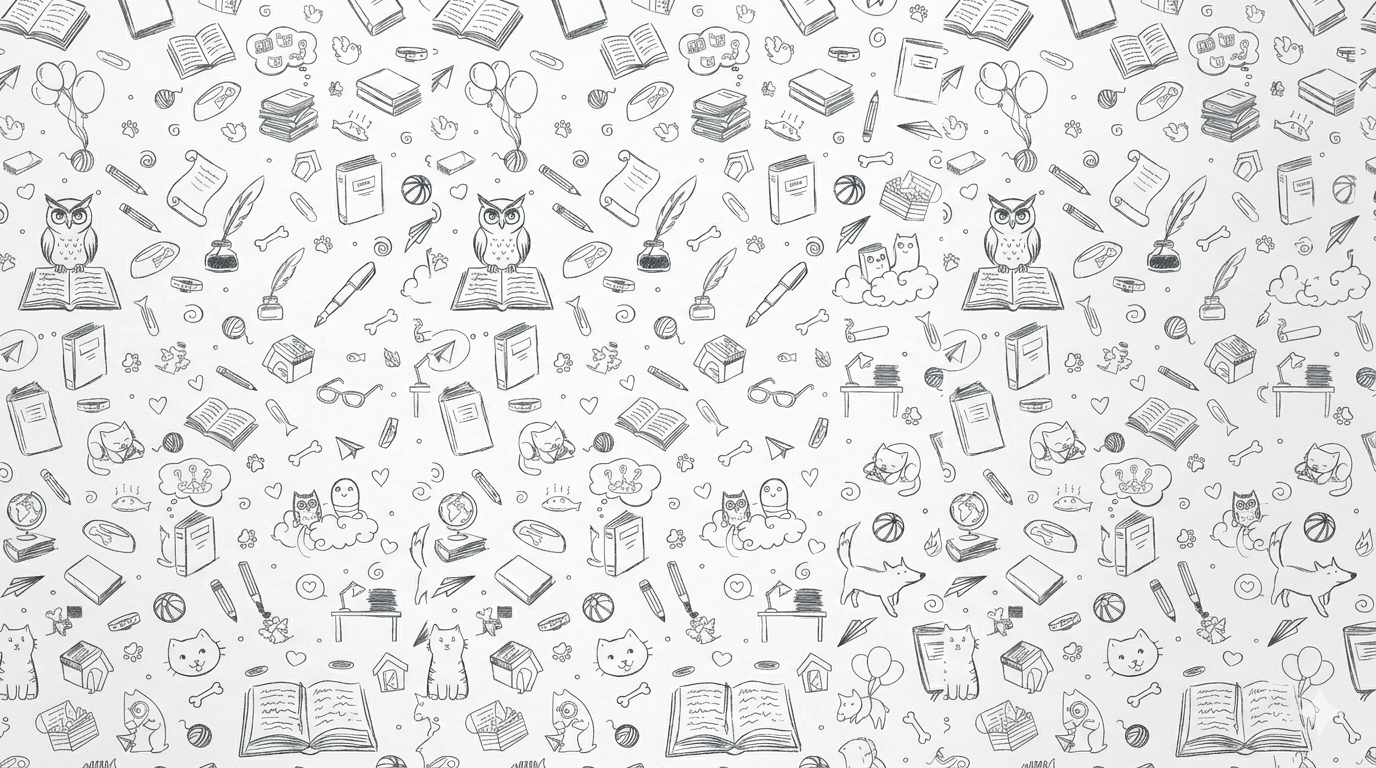
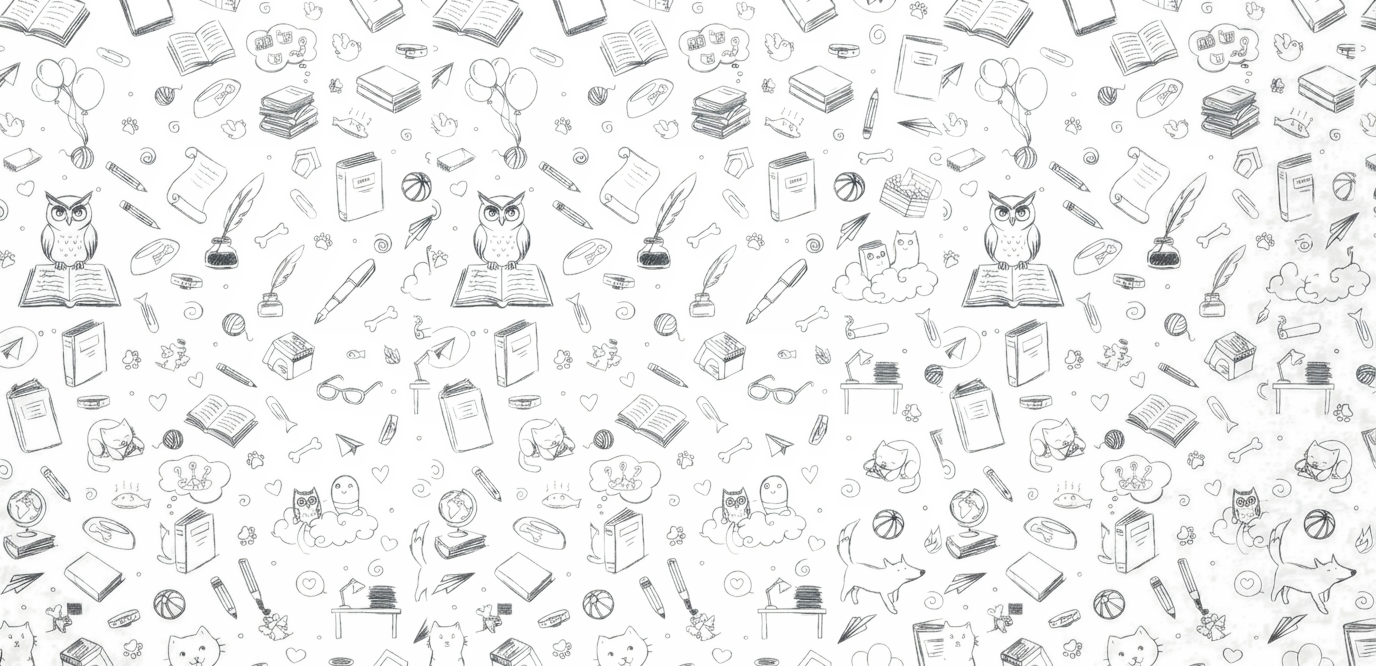
Fix: Fixed light mode background color and added better text box

diff --git a/src/pages/Dashboard/ChatRoom.tsx b/src/pages/Dashboard/ChatRoom.tsx
@@ -635,11 +635,11 @@ export default function ChatRoom({ panelMode, onBack, roomIdOverride }: ChatRoom
       })()}
       {/* Quick Replies */}
       {showQuickReplies && !isBlocked && (
-        <div className="px-4 md:px-6 pb-2">
+        <div className="px-3 pb-1 chat-bg">
           <div className="flex gap-2 overflow-x-auto no-scrollbar">
             {QUICK_MESSAGES.map((msg, i) => (
               <button key={i} onClick={() => sendMessage(msg)}
-                className="whitespace-nowrap px-4 py-2 theme-card border rounded-full text-xs font-medium text-luxury-ink/60 hover:bg-brand-teal/5 hover:text-brand-teal hover:border-brand-teal/20 transition-all" style={{ borderColor: 'var(--color-border)' }}>
+                className="whitespace-nowrap px-4 py-2 bg-surface-card border rounded-full text-xs font-medium text-luxury-ink/60 hover:bg-brand-teal/5 hover:text-brand-teal hover:border-brand-teal/20 transition-all shadow-sm" style={{ borderColor: 'var(--color-border)' }}>
                 {msg}
               </button>
             ))}
@@ -648,9 +648,9 @@ export default function ChatRoom({ panelMode, onBack, roomIdOverride }: ChatRoom
       )}
 
       {/* Input / Select Mode Actions */}
-      <div className="p-4 md:p-6 theme-card border-t pb-safe" style={{ borderColor: 'var(--color-border)' }}>
+      <div className="px-3 py-3 pb-safe chat-bg">
         {isSelectMode ? (
-          <div className="flex items-center justify-between">
+          <div className="flex items-center justify-between bg-surface-card rounded-2xl px-4 py-3 shadow-lg border" style={{ borderColor: 'var(--color-border)' }}>
             <div className="text-sm font-bold text-luxury-ink">
               {selectedMessages.size} selected
             </div>
@@ -670,7 +670,7 @@ export default function ChatRoom({ panelMode, onBack, roomIdOverride }: ChatRoom
             </div>
           </div>
         ) : isBlocked ? (
-          <div className="text-center py-4 bg-surface-soft rounded-2xl border border-luxury-ink/5">
+          <div className="text-center py-4 bg-surface-card rounded-2xl border border-luxury-ink/5 shadow-lg">
             <p className="text-sm font-bold text-luxury-ink/40">
               {isBlockedByMe ? "You have blocked this user." : "You cannot message this user."}
             </p>
@@ -678,7 +678,7 @@ export default function ChatRoom({ panelMode, onBack, roomIdOverride }: ChatRoom
         ) : (
           <div className="relative">
             {replyingTo && (
-              <div className="absolute bottom-full left-0 right-0 mb-4 bg-surface-card border rounded-xl p-3 flex items-start justify-between shadow-lg" style={{ borderColor: 'var(--color-border)' }}>
+              <div className="mb-2 bg-surface-card border rounded-2xl px-4 py-3 flex items-start justify-between shadow-md" style={{ borderColor: 'var(--color-border)' }}>
                 <div className="flex-1 overflow-hidden">
                   <div className="text-[10px] font-bold text-brand-teal uppercase tracking-widest mb-1 flex items-center gap-1"><CornerDownRight size={10} /> Replying to</div>
                   <div className="text-sm text-luxury-ink/70 line-clamp-1">{replyingTo.text || '📷 Image'}</div>
@@ -688,74 +688,80 @@ export default function ChatRoom({ panelMode, onBack, roomIdOverride }: ChatRoom
                 </button>
               </div>
             )}
-            
-            <form onSubmit={handleSendMessage} className="relative flex items-center gap-2">
-            <input 
-              type="file" 
-            ref={fileInputRef} 
-            onChange={handleImageUpload} 
-            accept="image/*" 
-            className="hidden" 
-          />
-          <button 
-            type="button" 
-            onClick={() => fileInputRef.current?.click()}
-            disabled={isUploading}
-            className="p-3.5 rounded-xl border border-luxury-ink/10 bg-surface-soft text-brand-teal hover:bg-brand-teal/10 hover:border-brand-teal/30 transition-all shrink-0 disabled:opacity-50"
-            title="Send Image"
-          >
-            {isUploading ? (
-              <div className="w-5 h-5 border-2 border-brand-teal border-t-transparent rounded-full animate-spin" />
-            ) : (
-              <Camera size={20} className="fill-brand-teal/10" />
-            )}
-          </button>
-          
-          <button type="button" onClick={() => setShowQuickReplies(!showQuickReplies)}
-            className={`p-3.5 rounded-xl border transition-all shrink-0 ${showQuickReplies ? 'bg-brand-teal text-white border-brand-teal' : 'bg-surface-soft border-luxury-ink/10 text-brand-teal hover:bg-brand-teal/10 hover:border-brand-teal/30'}`}
-            title="Quick replies">
-            ⚡
-          </button>
-          
-          <input
-            type="text"
-            value={newMessage}
-            onChange={(e) => setNewMessage(e.target.value)}
-            onPaste={async (e: React.ClipboardEvent<HTMLInputElement>) => {
-              const items = e.clipboardData?.items;
-              if (!items) return;
-              for (const item of Array.from(items)) {
-                if (item.type.startsWith('image/')) {
-                  e.preventDefault();
-                  const file = item.getAsFile();
-                  if (!file || !roomId) return;
-                  if (file.size > 5 * 1024 * 1024) {
-                    showToast('Image must be less than 5MB', 'error');
-                    return;
-                  }
-                  setIsUploading(true);
-                  try {
-                    const imageUrl = await uploadChatImage(file, roomId);
-                    await sendMessage(undefined, imageUrl);
-                  } catch {
-                    showToast('Failed to upload image', 'error');
-                  } finally {
-                    setIsUploading(false);
-                  }
-                  return;
-                }
-              }
-            }}
-            placeholder={isUploading ? "Uploading image..." : "Type your message..."}
-            disabled={isUploading}
-            className="flex-1 bg-surface-base border border-luxury-ink/5 rounded-2xl py-4 px-6 focus:outline-none focus:border-brand-teal transition-all text-sm font-medium"
-          />
-          <button type="submit" disabled={!newMessage.trim() || isUploading}
-            className="p-3.5 bg-luxury-ink text-surface-base rounded-xl hover:bg-brand-teal transition-all shadow-lg disabled:opacity-30 disabled:cursor-not-allowed shrink-0">
-            <Send size={18} />
-          </button>
-        </form>
-        </div>
+
+            <form onSubmit={handleSendMessage} className="flex items-center gap-2">
+              <input type="file" ref={fileInputRef} onChange={handleImageUpload} accept="image/*" className="hidden" />
+
+              {/* Camera button — outside pill */}
+              <button
+                type="button"
+                onClick={() => fileInputRef.current?.click()}
+                disabled={isUploading}
+                className="p-3 rounded-full bg-surface-card border border-luxury-ink/10 text-brand-teal hover:bg-brand-teal/10 transition-all shrink-0 disabled:opacity-50 shadow-md"
+                title="Send Image"
+              >
+                {isUploading ? (
+                  <div className="w-5 h-5 border-2 border-brand-teal border-t-transparent rounded-full animate-spin" />
+                ) : (
+                  <Camera size={20} />
+                )}
+              </button>
+
+              {/* Input pill */}
+              <div className="flex-1 flex items-center gap-1 bg-surface-card rounded-full border border-luxury-ink/10 shadow-md px-4" style={{ borderColor: 'var(--color-border)' }}>
+                <button
+                  type="button"
+                  onClick={() => setShowQuickReplies(!showQuickReplies)}
+                  className={`p-2 rounded-full transition-all shrink-0 text-base ${showQuickReplies ? 'text-brand-teal' : 'text-luxury-ink/40 hover:text-brand-teal'}`}
+                  title="Quick replies"
+                >
+                  ⚡
+                </button>
+                <input
+                  type="text"
+                  value={newMessage}
+                  onChange={(e) => setNewMessage(e.target.value)}
+                  onPaste={async (e: React.ClipboardEvent<HTMLInputElement>) => {
+                    const items = e.clipboardData?.items;
+                    if (!items) return;
+                    for (const item of Array.from(items)) {
+                      if (item.type.startsWith('image/')) {
+                        e.preventDefault();
+                        const file = item.getAsFile();
+                        if (!file || !roomId) return;
+                        if (file.size > 5 * 1024 * 1024) {
+                          showToast('Image must be less than 5MB', 'error');
+                          return;
+                        }
+                        setIsUploading(true);
+                        try {
+                          const imageUrl = await uploadChatImage(file, roomId);
+                          await sendMessage(undefined, imageUrl);
+                        } catch {
+                          showToast('Failed to upload image', 'error');
+                        } finally {
+                          setIsUploading(false);
+                        }
+                        return;
+                      }
+                    }
+                  }}
+                  placeholder={isUploading ? "Uploading..." : "Type your message..."}
+                  disabled={isUploading}
+                  className="flex-1 bg-transparent py-3.5 text-sm font-medium focus:outline-none text-luxury-ink placeholder:text-luxury-ink/30"
+                />
+              </div>
+
+              {/* Send button — outside pill */}
+              <button
+                type="submit"
+                disabled={!newMessage.trim() || isUploading}
+                className="p-3 bg-brand-teal text-white rounded-full hover:opacity-90 transition-all shadow-md disabled:opacity-30 disabled:cursor-not-allowed shrink-0"
+              >
+                <Send size={18} />
+              </button>
+            </form>
+          </div>
         )}
       </div>
       {/* Image Viewer */}
@@ -801,7 +807,7 @@ export default function ChatRoom({ panelMode, onBack, roomIdOverride }: ChatRoom
               initial={{ scale: 0.9, opacity: 0 }}
               animate={{ scale: 1, opacity: 1 }}
               exit={{ scale: 0.9, opacity: 0 }}
-              src={viewingImage}
+              src={viewingImage ?? ''}
               alt="Full size"
               className="max-w-[90vw] max-h-[90vh] object-contain rounded-xl shadow-2xl"
               onClick={e => e.stopPropagation()}
@@ -837,7 +843,7 @@ export default function ChatRoom({ panelMode, onBack, roomIdOverride }: ChatRoom
                   Cancel
                 </button>
                 <button
-                  onClick={() => handleDeleteForMe(deleteConfirmMsgId)}
+                  onClick={() => handleDeleteForMe(deleteConfirmMsgId!)}
                   className="px-5 py-2.5 bg-red-500 text-white rounded-full text-sm font-bold hover:bg-red-600 transition-colors shadow-lg"
                 >
                   Delete for me
@@ -876,7 +882,7 @@ export default function ChatRoom({ panelMode, onBack, roomIdOverride }: ChatRoom
                   Cancel
                 </button>
                 <button
-                  onClick={() => handleDeleteForEveryone(deleteEveryoneConfirmMsgId)}
+                  onClick={() => handleDeleteForEveryone(deleteEveryoneConfirmMsgId!)}
                   className="px-5 py-2.5 bg-red-500 text-white rounded-full text-sm font-bold hover:bg-red-600 transition-colors shadow-lg"
                 >
                   Delete for everyone

diff --git a/src/pages/Dashboard/ClubChat.tsx b/src/pages/Dashboard/ClubChat.tsx
@@ -565,9 +565,9 @@ export default function ClubChat({ panelMode, roomIdOverride, onBack }: ClubChat
       </div>
 
       {/* Input / Select Mode / Announcement mode */}
-      <div className="p-4 md:p-6 theme-card border-t pb-safe" style={{ borderColor: 'var(--color-border)' }}>
+      <div className="px-3 py-3 pb-safe chat-bg">
         {isSelectMode ? (
-          <div className="flex items-center justify-between">
+          <div className="flex items-center justify-between bg-surface-card rounded-2xl px-4 py-3 shadow-lg border" style={{ borderColor: 'var(--color-border)' }}>
             <div className="text-sm font-bold text-luxury-ink">{selectedMessages.size} selected</div>
             <div className="flex items-center gap-2">
               <button onClick={() => { setIsSelectMode(false); setSelectedMessages(new Set()); }}
@@ -579,7 +579,7 @@ export default function ClubChat({ panelMode, roomIdOverride, onBack }: ClubChat
             </div>
           </div>
         ) : !canPost ? (
-          <div className="text-center py-4 bg-surface-soft rounded-2xl border border-luxury-ink/5">
+          <div className="text-center py-4 bg-surface-card rounded-2xl border border-luxury-ink/5 shadow-lg">
             <p className="text-sm font-bold text-luxury-ink/40 flex items-center justify-center gap-2">
               <Lock size={14} /> Only leads can send messages in this club
             </p>
@@ -587,7 +587,7 @@ export default function ClubChat({ panelMode, roomIdOverride, onBack }: ClubChat
         ) : (
           <div className="relative">
             {replyingTo && (
-              <div className="absolute bottom-full left-0 right-0 mb-4 bg-surface-card border rounded-xl p-3 flex items-start justify-between shadow-lg" style={{ borderColor: 'var(--color-border)' }}>
+              <div className="mb-2 bg-surface-card border rounded-2xl px-4 py-3 flex items-start justify-between shadow-md" style={{ borderColor: 'var(--color-border)' }}>
                 <div className="flex-1 overflow-hidden">
                   <div className="text-[10px] font-bold text-brand-teal uppercase tracking-widest mb-1 flex items-center gap-1">
                     <CornerDownRight size={10} /> Replying to {replyingTo.senderName}
@@ -600,33 +600,40 @@ export default function ClubChat({ panelMode, roomIdOverride, onBack }: ClubChat
               </div>
             )}
 
-            <form onSubmit={handleSendMessage} className="relative flex items-center gap-2">
+            <form onSubmit={handleSendMessage} className="flex items-center gap-2">
               <input type="file" ref={fileInputRef} onChange={handleImageUpload} accept="image/*" className="hidden" />
+
+              {/* Camera button — outside pill */}
               <button
                 type="button"
                 onClick={() => fileInputRef.current?.click()}
                 disabled={isUploading}
-                className="p-3.5 rounded-xl border border-luxury-ink/10 bg-surface-soft text-brand-teal hover:bg-brand-teal/10 hover:border-brand-teal/30 transition-all shrink-0 disabled:opacity-50"
+                className="p-3 rounded-full bg-surface-card border border-luxury-ink/10 text-brand-teal hover:bg-brand-teal/10 transition-all shrink-0 disabled:opacity-50 shadow-md"
               >
                 {isUploading ? (
                   <div className="w-5 h-5 border-2 border-brand-teal border-t-transparent rounded-full animate-spin" />
                 ) : (
-                  <Camera size={20} className="fill-brand-teal/10" />
+                  <Camera size={20} />
                 )}
               </button>
 
-              <input
-                type="text"
-                value={newMessage}
-                onChange={(e) => setNewMessage(e.target.value)}
-                placeholder={isUploading ? 'Uploading image...' : 'Type your message...'}
-                disabled={isUploading}
-                className="flex-1 bg-surface-base border border-luxury-ink/5 rounded-2xl py-4 px-6 focus:outline-none focus:border-brand-teal transition-all text-sm font-medium"
-              />
+              {/* Input pill */}
+              <div className="flex-1 flex items-center bg-surface-card rounded-full border border-luxury-ink/10 shadow-md px-4" style={{ borderColor: 'var(--color-border)' }}>
+                <input
+                  type="text"
+                  value={newMessage}
+                  onChange={(e) => setNewMessage(e.target.value)}
+                  placeholder={isUploading ? 'Uploading...' : 'Type your message...'}
+                  disabled={isUploading}
+                  className="flex-1 bg-transparent py-3.5 text-sm font-medium focus:outline-none text-luxury-ink placeholder:text-luxury-ink/30"
+                />
+              </div>
+
+              {/* Send button — outside pill */}
               <button
                 type="submit"
                 disabled={!newMessage.trim() || isUploading}
-                className="p-3.5 bg-luxury-ink text-surface-base rounded-xl hover:bg-brand-teal transition-all shadow-lg disabled:opacity-30 disabled:cursor-not-allowed shrink-0"
+                className="p-3 bg-brand-teal text-white rounded-full hover:opacity-90 transition-all shadow-md disabled:opacity-30 disabled:cursor-not-allowed shrink-0"
               >
                 <Send size={18} />
               </button>
@@ -648,7 +655,7 @@ export default function ClubChat({ panelMode, roomIdOverride, onBack }: ClubChat
               <p className="text-luxury-ink/60 text-sm mb-6">Delete this message for yourself?</p>
               <div className="flex justify-end gap-3">
                 <button onClick={() => setDeleteConfirmMsgId(null)} className="px-5 py-2.5 rounded-full text-sm font-bold text-luxury-ink/60 hover:bg-surface-soft">Cancel</button>
-                <button onClick={() => handleDeleteForMe(deleteConfirmMsgId)} className="px-5 py-2.5 bg-red-500 text-white rounded-full text-sm font-bold hover:bg-red-600 shadow-lg">Delete</button>
+                <button onClick={() => handleDeleteForMe(deleteConfirmMsgId!)} className="px-5 py-2.5 bg-red-500 text-white rounded-full text-sm font-bold hover:bg-red-600 shadow-lg">Delete</button>
               </div>
             </motion.div>
           </motion.div>
@@ -668,7 +675,7 @@ export default function ClubChat({ panelMode, roomIdOverride, onBack }: ClubChat
               <p className="text-luxury-ink/60 text-sm mb-6">This message will be permanently deleted for all club members.</p>
               <div className="flex justify-end gap-3">
                 <button onClick={() => setDeleteEveryoneConfirmMsgId(null)} className="px-5 py-2.5 rounded-full text-sm font-bold text-luxury-ink/60 hover:bg-surface-soft">Cancel</button>
-                <button onClick={() => handleDeleteForEveryone(deleteEveryoneConfirmMsgId)} className="px-5 py-2.5 bg-red-500 text-white rounded-full text-sm font-bold hover:bg-red-600 shadow-lg">Delete for everyone</button>
+                <button onClick={() => handleDeleteForEveryone(deleteEveryoneConfirmMsgId!)} className="px-5 py-2.5 bg-red-500 text-white rounded-full text-sm font-bold hover:bg-red-600 shadow-lg">Delete for everyone</button>
               </div>
             </motion.div>
           </motion.div>